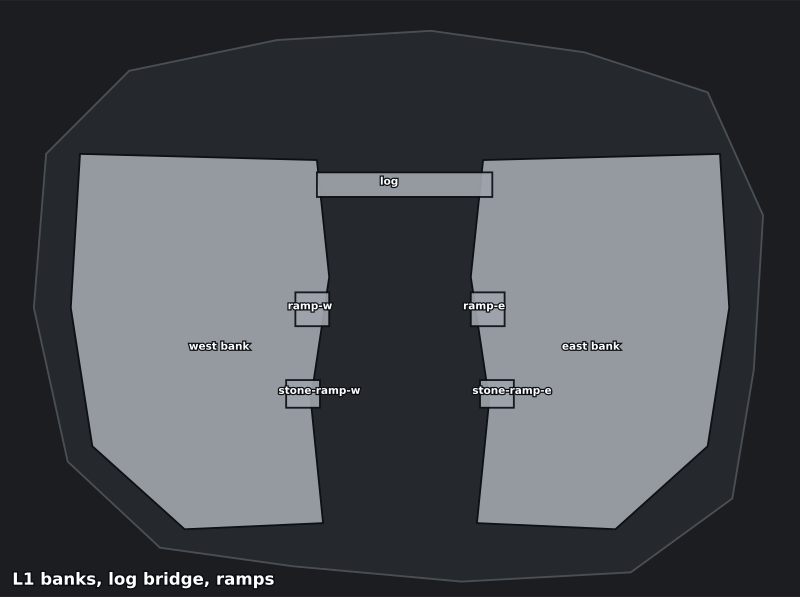
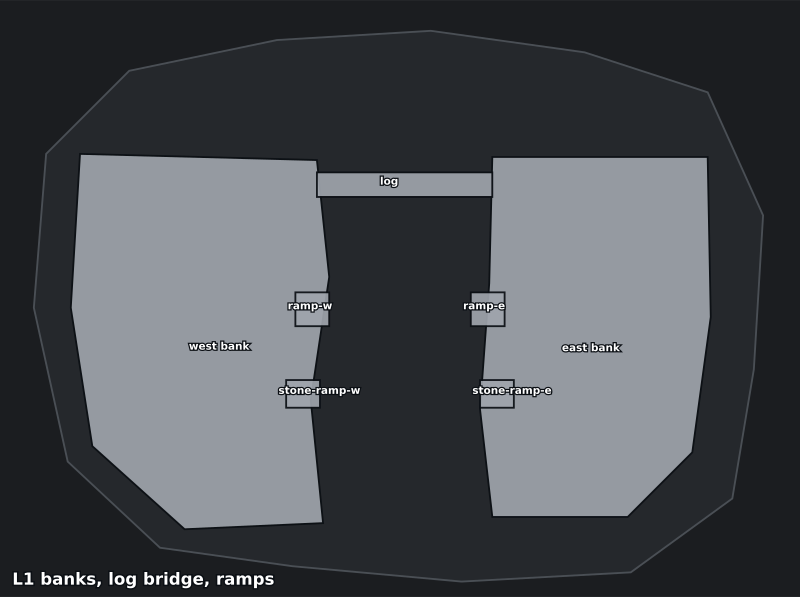
#3276: Frozen Crossing: east bank bent by hand, measured hue distance, doc fixes

diff --git a/docs/art/3072-frozen-crossing.md b/docs/art/3072-frozen-crossing.md
@@ -10,17 +10,17 @@ the place (a frozen river) is kept.
 ## Rules the study holds
 
 - **Bounds** 2600×1940 = 5.04 M u² (1× Canyon, 2v2). The ground outline fills 72 % of it, ragged,
-  with natural land outside.
+  with `rock` (`OUTSIDE_KINDS`) outside, drawn as boulders and drifted scree.
 - **New biome `snow`, proposed row** for `visual-style.md` §1 (the map's first build PR adds it):
   ground `#5a5f66` (shaded snow), rock `#4d4a4a`, plant/earth: thaw slush `#6a6a58`. Snow decks
   `#9ea4ab` (ridge tops `#b4b9be`), river ice `#7d8a94` (a breath cooler than the ground), open water `#34495a`. All
-  low chroma and neutral-to-grey; none sits within a hand's width of friend `#59c2ff`, help
-  `#3f9fe8`/`#9fdcff` or magic violet, which is why the ice is grey-teal and the water dark, not blue.
+  low chroma and neutral-to-grey; the river ice has friend `#59c2ff`'s hue (206° against 202°) but not its colour: saturation 10 % against
+  100 %, and an sRGB distance of 126, with the ice 40 % darker (L 0.54 against 0.67), which is why the ice is grey-teal and the water dark, not blue. The other tones are neutral greys at saturation ≤ 10 %.
   The build PR adds the row and its `arena-palette.test.ts` check; this study adds no code. Decks are kept mid-grey on purpose: near-white snow would wash the friend blue out, so bodies keep their contrast on it.
 - **Layers (3):** L0 river ice, open water, stepping stones and the cave floor; L1 the two banks (a
   `deck` each, 70 up) and the log bridge; L2 a ridge on each bank (`decks`, 140 up).
 - **Structures (≥ 4):** two banks; four ramps (two down to the ice, two off the stones); two ridge stairs; two ridges; the log
-  bridge (a `bridge` deck at bank height); five stepping stones, 120 wide at a 105 pitch, run edge to edge of the deep band (x 1030..1570, y 1230..1320) and a sixth links the strip north to the band edge at x 1250..1350. Each end meets the bank's 70 u face at a short ramp up (`stone-ramp-w` at (930,1235), `stone-ramp-e` mirrored), both walk-up and walk-down; there is no water between the strip and the ramps or the shelf; the deep water is the band minus the stones: three rects, (1030,1160,220×70), (1350,1160,220×70) and (1030,1320,540×40).
+  bridge (a `bridge` deck at bank height); five stepping stones, 120 wide at a 105 pitch, run edge to edge of the deep band (x 1030..1570; the strip itself is y 1230..1320) and a sixth links the strip north to the band edge at x 1250..1350. Each end meets the bank's 70 u face at a short ramp up (`stone-ramp-w` at (930,1235), `stone-ramp-e` mirrored), both walk-up and walk-down; there is no water between the strip and the ramps or the shelf; the deep band is y 1160..1360, and its water is the band minus the strip and link: three rects, (1030,1160,220×70) and (1350,1160,220×70) north of the strip (y 1160..1230) and (1030,1320,540×40) south of it (y 1320..1360).
 - **Tunnel:** the far-bank cave, 110 wide, from a mouth on the ice at (1570,1500) east under the east
   bank and out at its south edge at (2000,1710) onto the south lane. Cover shows the seam and
   grating slots (#3236), as wide as the walkable floor (#3179).
@@ -43,18 +43,22 @@ the place (a frozen river) is kept.
 Spawns: T1 (470,1330) and (540,1460) on the west bank; T2 mirrored on the east bank.
 The centre is the central shelf, (1300,1000).
 
-| Route                                                           | Length | Walk  |
-| --------------------------------------------------------------- | ------ | ----- |
-| ice shelf (ramp down, across the ice)                           | 927 u  | 5.1 s |
-| stepping stones (over the open water)                           | 1086 u | 6.0 s |
-| log bridge (up the bank, over the bridge, through the ice wall) | 1597 u | 8.9 s |
+| Route (T1 / T2)                                                 | Length        | Walk        |
+| --------------------------------------------------------------- | ------------- | ----------- |
+| ice shelf (ramp down, across the ice)                           | 927 / 974 u   | 5.2 / 5.4 s |
+| stepping stones (over the open water)                           | 1086 / 1121 u | 6.0 / 6.2 s |
+| log bridge (up the bank, over the bridge, through the ice wall) | 1597 / 1648 u | 8.9 / 9.2 s |
 
-Both teams have the same three, so their walks are equal. The sides differ on purpose: the east bank
+The log-bridge time assumes the ice wall is broken (it starts shut). Both teams have the same three routes and their walks are within 6 %. The east bank is not a mirror of the west: it bulges toward the river in the middle and steps back at the south, and the T2 seats stand further from the water. The sides differ on purpose: the east bank
 holds the cave and a snow-capped ridge (231 k u²); the west a bare rock ridge (213 k u², 8 %
 smaller, within 25 %) and the thaw slush. High ground within half the map of either spawn is its own
 ridge, reached by its own stair; neither is reachable without crossing the middle or the bridge.
 The cave gives the east a flank onto the south lane; the west's matching asset is the bank-edge
-drop on its south lane. **Known risk for the build card:** the cave is an east-only flank, so a 2v2 with a one-sided tunnel needs the bench to watch for it (walks are equal, the flank is not); the build card must measure it, not leave it to later tuning.
+drop on its south lane. **Known risk for the build card:** the cave is an east-only flank, so a 2v2 with a one-sided tunnel needs the bench to watch for it (walks are within 6 %, the flank is not); the build card must measure it, not leave it to later tuning.
+
+## Signature fight
+
+The thaw: the stone strip is a narrow, fast crossing that the ice wall and the lever can shut or open round, so the fight is for the lever and the strip, not for the ridges.
 
 ## Canyon lessons, on the plan
 
